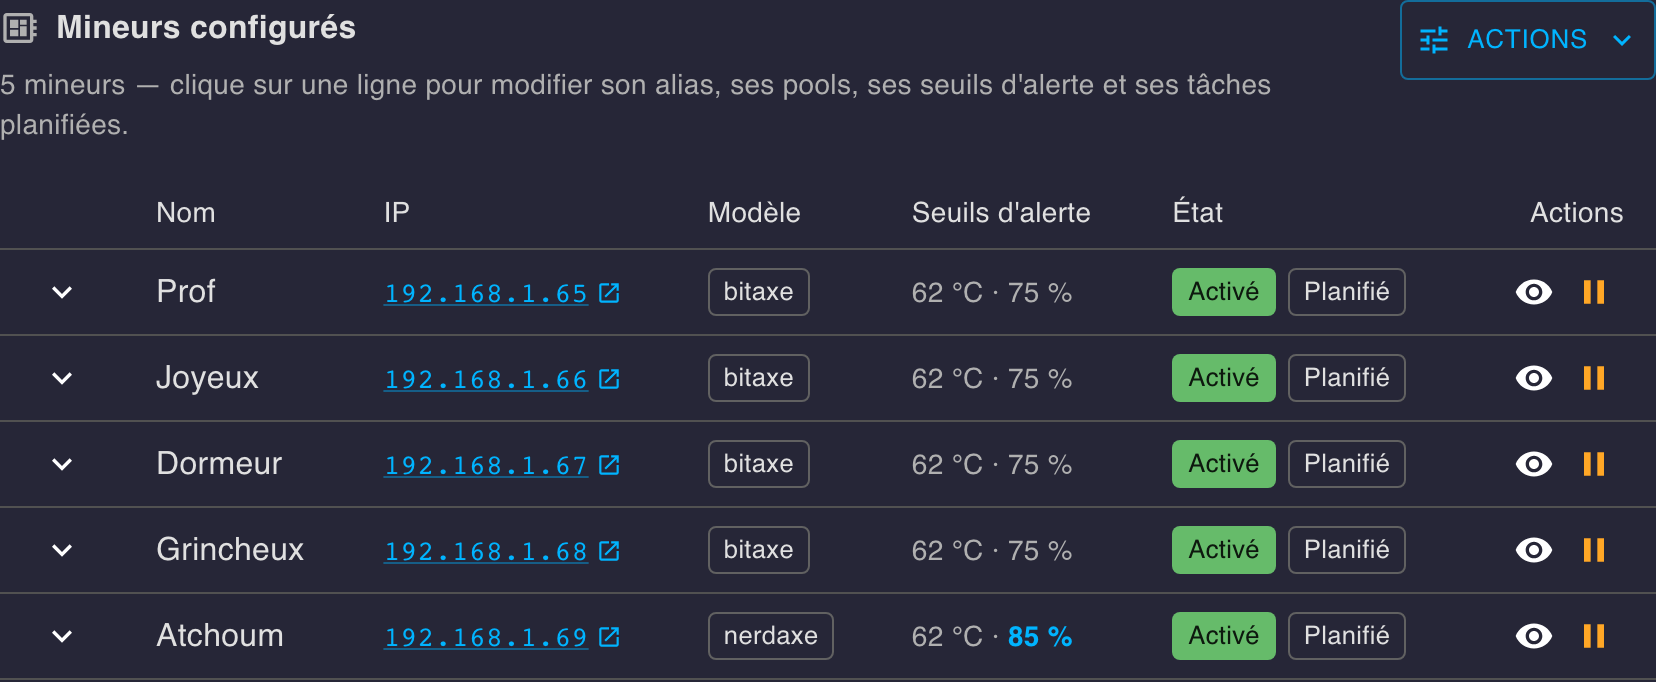
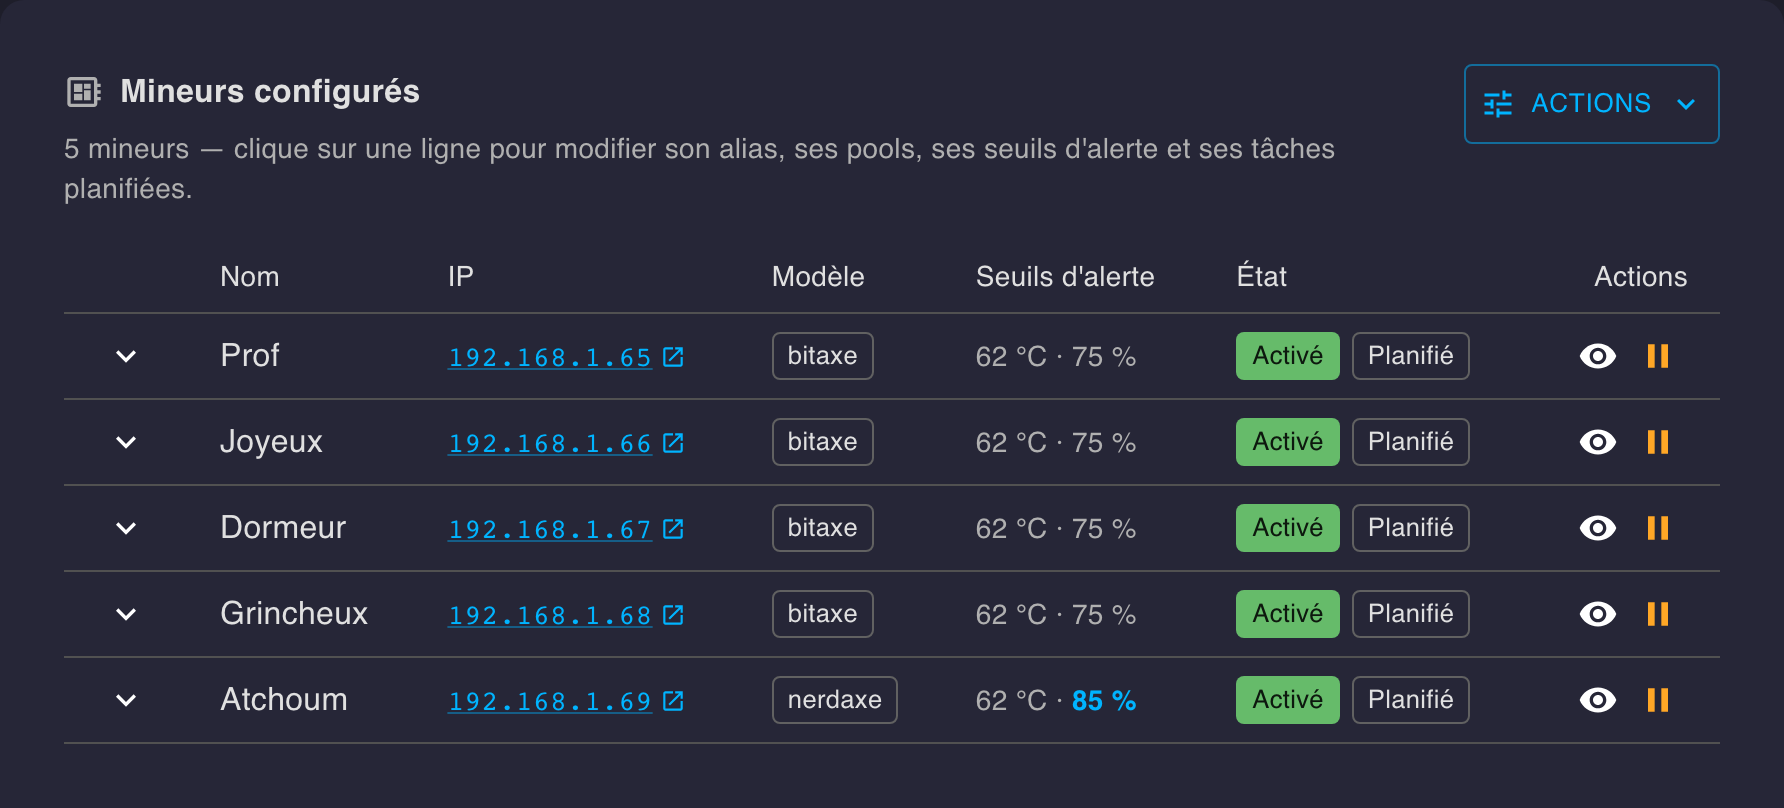
docs: the configured miners' Actions, laid out and shot properly
Configuration › Miners: the Actions get their own section after a row's editors (switch to a pool, check the pools, disable all), the pool drift warning is described under Name and pools, and the three screenshots are retaken framed like the page's others -- the panel with its margins, the check's window on the app's background -- with no personal data in them.

diff --git a/docs/configuration.md b/docs/configuration.md
@@ -72,40 +72,19 @@ configuration.
 La liste des mineurs déjà configurés, avec leur IP, modèle, seuils
 d'alerte (en couleur ceux propres au mineur) et état — activation/
 désactivation en un clic par mineur. L'IP ouvre l'interface AxeOS du
-mineur, l'œil son panneau de détail, le même que sur le [tableau de bord]({{ '/dashboard.html' | relative_url }}).
+mineur dans un nouvel onglet, l'œil son panneau de détail, le même que
+sur le [tableau de bord]({{ '/dashboard.html' | relative_url }}). Le
+bouton **Actions** déplie ce qui agit sur tous les mineurs à la fois
+(voir [Actions](#actions)).
 
 ![Mineurs configurés]({{ '/assets/images/settings-configured-miners.png' | relative_url }})
-
-#### Actions
-
-Le bouton **Actions** déplie ce qui agit sur tous les mineurs à la fois :
-
-- **Basculer sur un pool** : la liste des pools que les mineurs ont en ce
-  moment, avec le nombre de mineurs actifs sur chacun. Chaque mineur qui
-  a le pool choisi bascule dessus, quel que soit le slot où il l'a —
-  ceux déjà dessus, ou sans ce pool, restent tels quels. Le résumé
-  s'affiche en bas à gauche ; chaque mineur basculé est tracé dans
-  l'[audit]({{ '/audit.html' | relative_url }}).
-- **Vérifier les pools** : interroge chaque mineur activé et compare ses
-  deux pools (URL, port, utilisateur) avec ceux enregistrés dans le
-  dashboard — voir ci-dessous.
-- **Tout désactiver** : plus aucun mineur n'est interrogé ni planifié.
-
-![Actions]({{ '/assets/images/settings-miners-actions.png' | relative_url }})
-
-La vérification rend un rapport pour chaque mineur : son nom et son
-alias, son IP et sa MAC, puis son pool primaire et son pool de secours
-tels que le mineur les a, ✅ quand le dashboard a les mêmes, ❌ avec
-chaque champ qui diffère sinon. Un mineur qui ne répond pas, ou dont la
-MAC n'est pas celle enregistrée, est **non lu**. **Synchroniser**
-enregistre dans le dashboard les pools de chaque mineur à corriger.
-
-![Vérification des pools]({{ '/assets/images/settings-miners-check.png' | relative_url }})
 
 #### Nom et pools
 
 Cliquer sur un mineur déplie son éditeur : nom affiché, et pool primaire
-/ secours (URL, port, utilisateur).
+/ secours (URL, port, utilisateur). Quand ces pools diffèrent de ceux du
+dernier relevé du feeder, une alerte le signale au-dessus, avec l'heure
+de ce relevé.
 
 ![Nom et pools]({{ '/assets/images/settings-alias-pools.png' | relative_url }})
 
@@ -123,6 +102,43 @@ ventilateur plus haut. Un champ vide suit les seuils de tous les mineurs
 Programme un changement de pool ou un redémarrage selon un planning cron.
 
 ![Planificateur]({{ '/assets/images/settings-schedule.png' | relative_url }})
+
+### Actions
+{: #actions }
+
+Le bouton **Actions**, en haut de la liste, déplie les actions qui
+portent sur tous les mineurs activés à la fois.
+
+![Actions]({{ '/assets/images/settings-miners-actions.png' | relative_url }})
+
+#### Basculer sur un pool
+
+Le menu liste les pools que les mineurs ont en ce moment, avec pour
+chacun le nombre de mineurs qui minent dessus sur le nombre qui l'ont.
+Après confirmation, chaque mineur qui a le pool choisi bascule dessus,
+quel que soit le slot où il l'a (primaire ou secours), puis redémarre ;
+ceux déjà dessus ou qui ne l'ont pas restent tels quels. Le résumé
+s'affiche en bas à gauche, et chaque mineur basculé a son entrée dans
+l'[audit]({{ '/audit.html' | relative_url }}), avec le pool quitté et
+le pool rejoint.
+
+#### Vérifier les pools
+
+Interroge chaque mineur et compare ses deux pools (URL, port,
+utilisateur) avec ceux enregistrés dans le dashboard. Le rapport donne,
+pour chaque mineur, son nom et son alias, son IP et sa MAC, puis son
+pool primaire et son pool de secours tels que le mineur les a : ✅
+quand le dashboard a les mêmes, ❌ sinon, avec chaque champ qui diffère.
+Un mineur qui ne répond pas, ou dont la MAC n'est pas celle enregistrée,
+est **non lu**. **Synchroniser** enregistre dans le dashboard les pools
+des mineurs à corriger.
+
+![Vérification des pools]({{ '/assets/images/settings-miners-check.png' | relative_url }})
+
+#### Tout désactiver
+
+Désactive tous les mineurs : plus aucun n'est interrogé ni planifié,
+jusqu'à ce qu'on les réactive un par un.
 
 ---
 

diff --git a/docs/en/configuration.md b/docs/en/configuration.md
@@ -71,38 +71,19 @@ Miners found appear below, ready to be added to the configuration.
 
 The list of already-configured miners, with their IP, model, alert
 thresholds (in color, a miner's own) and status — enable/disable in one
-click per miner. The IP opens the miner's AxeOS interface, the eye its
-detail panel, the same as on the [dashboard]({{ '/en/dashboard.html' | relative_url }}).
+click per miner. The IP opens the miner's AxeOS interface in a new tab,
+the eye its detail panel, the same as on the [dashboard]({{ '/en/dashboard.html' | relative_url }}).
+The **Actions** button unfolds what acts on every miner at once (see
+[Actions](#actions)).
 
 ![Configured miners]({{ '/assets/images/settings-configured-miners.png' | relative_url }})
-
-#### Actions
-
-The **Actions** button unfolds what acts on every miner at once:
-
-- **Switch to a pool**: the pools the miners hold right now, with how many
-  miners are active on each. Every miner that has the chosen pool switches
-  to it, whichever slot holds it — those already on it, or without it,
-  stay as they are. The summary shows at the bottom left; each switched
-  miner is recorded in the [audit]({{ '/en/audit.html' | relative_url }}).
-- **Check the pools**: asks every enabled miner and compares its two pools
-  (URL, port, user) with the ones saved in the dashboard — see below.
-- **Disable all**: no miner is polled nor scheduled any more.
-
-![Actions]({{ '/assets/images/settings-miners-actions.png' | relative_url }})
-
-The check reports on every miner: its name and alias, its IP and MAC, then
-its primary and fallback pools as the miner holds them, ✅ when the
-dashboard has the same, ❌ with each field that differs otherwise. A miner
-that doesn't answer, or whose MAC isn't the one saved, is **not read**.
-**Sync** saves in the dashboard the pools of each miner to fix.
-
-![Pool check]({{ '/assets/images/settings-miners-check.png' | relative_url }})
 
 #### Name and pools
 
 Clicking a miner expands its editor: display name, and primary /
-fallback pool (URL, port, user).
+fallback pool (URL, port, user). When these pools differ from the
+feeder's last reading, a warning says so above them, with the time of
+that reading.
 
 ![Name and pools]({{ '/assets/images/settings-alias-pools.png' | relative_url }})
 
@@ -119,6 +100,41 @@ miner's thresholds (see [System](#system)), shown greyed out.
 Schedules a pool switch or a restart on a cron schedule.
 
 ![Scheduler]({{ '/assets/images/settings-schedule.png' | relative_url }})
+
+### Actions
+{: #actions }
+
+The **Actions** button, at the top of the list, unfolds the actions on
+every enabled miner at once.
+
+![Actions]({{ '/assets/images/settings-miners-actions.png' | relative_url }})
+
+#### Switch to a pool
+
+The menu lists the pools the miners hold right now, each with how many
+miners mine on it out of how many hold it. Once confirmed, every miner
+that has the chosen pool switches to it, whichever slot holds it
+(primary or fallback), then restarts; those already on it or without it
+stay as they are. The summary shows at the bottom left, and each switched
+miner gets its entry in the [audit]({{ '/en/audit.html' | relative_url }}),
+with the pool it left and the one it joined.
+
+#### Check the pools
+
+Asks every miner and compares its two pools (URL, port, user) with the
+ones saved in the dashboard. The report gives, for each miner, its name
+and alias, its IP and MAC, then its primary and fallback pools as the
+miner holds them: ✅ when the dashboard has the same, ❌ otherwise, with
+each field that differs. A miner that doesn't answer, or whose MAC isn't
+the one saved, is **not read**. **Sync** saves in the dashboard the
+pools of the miners to fix.
+
+![Pool check]({{ '/assets/images/settings-miners-check.png' | relative_url }})
+
+#### Disable all
+
+Disables every miner: none is polled nor scheduled any more, until
+they're enabled again one by one.
 
 ---
 
